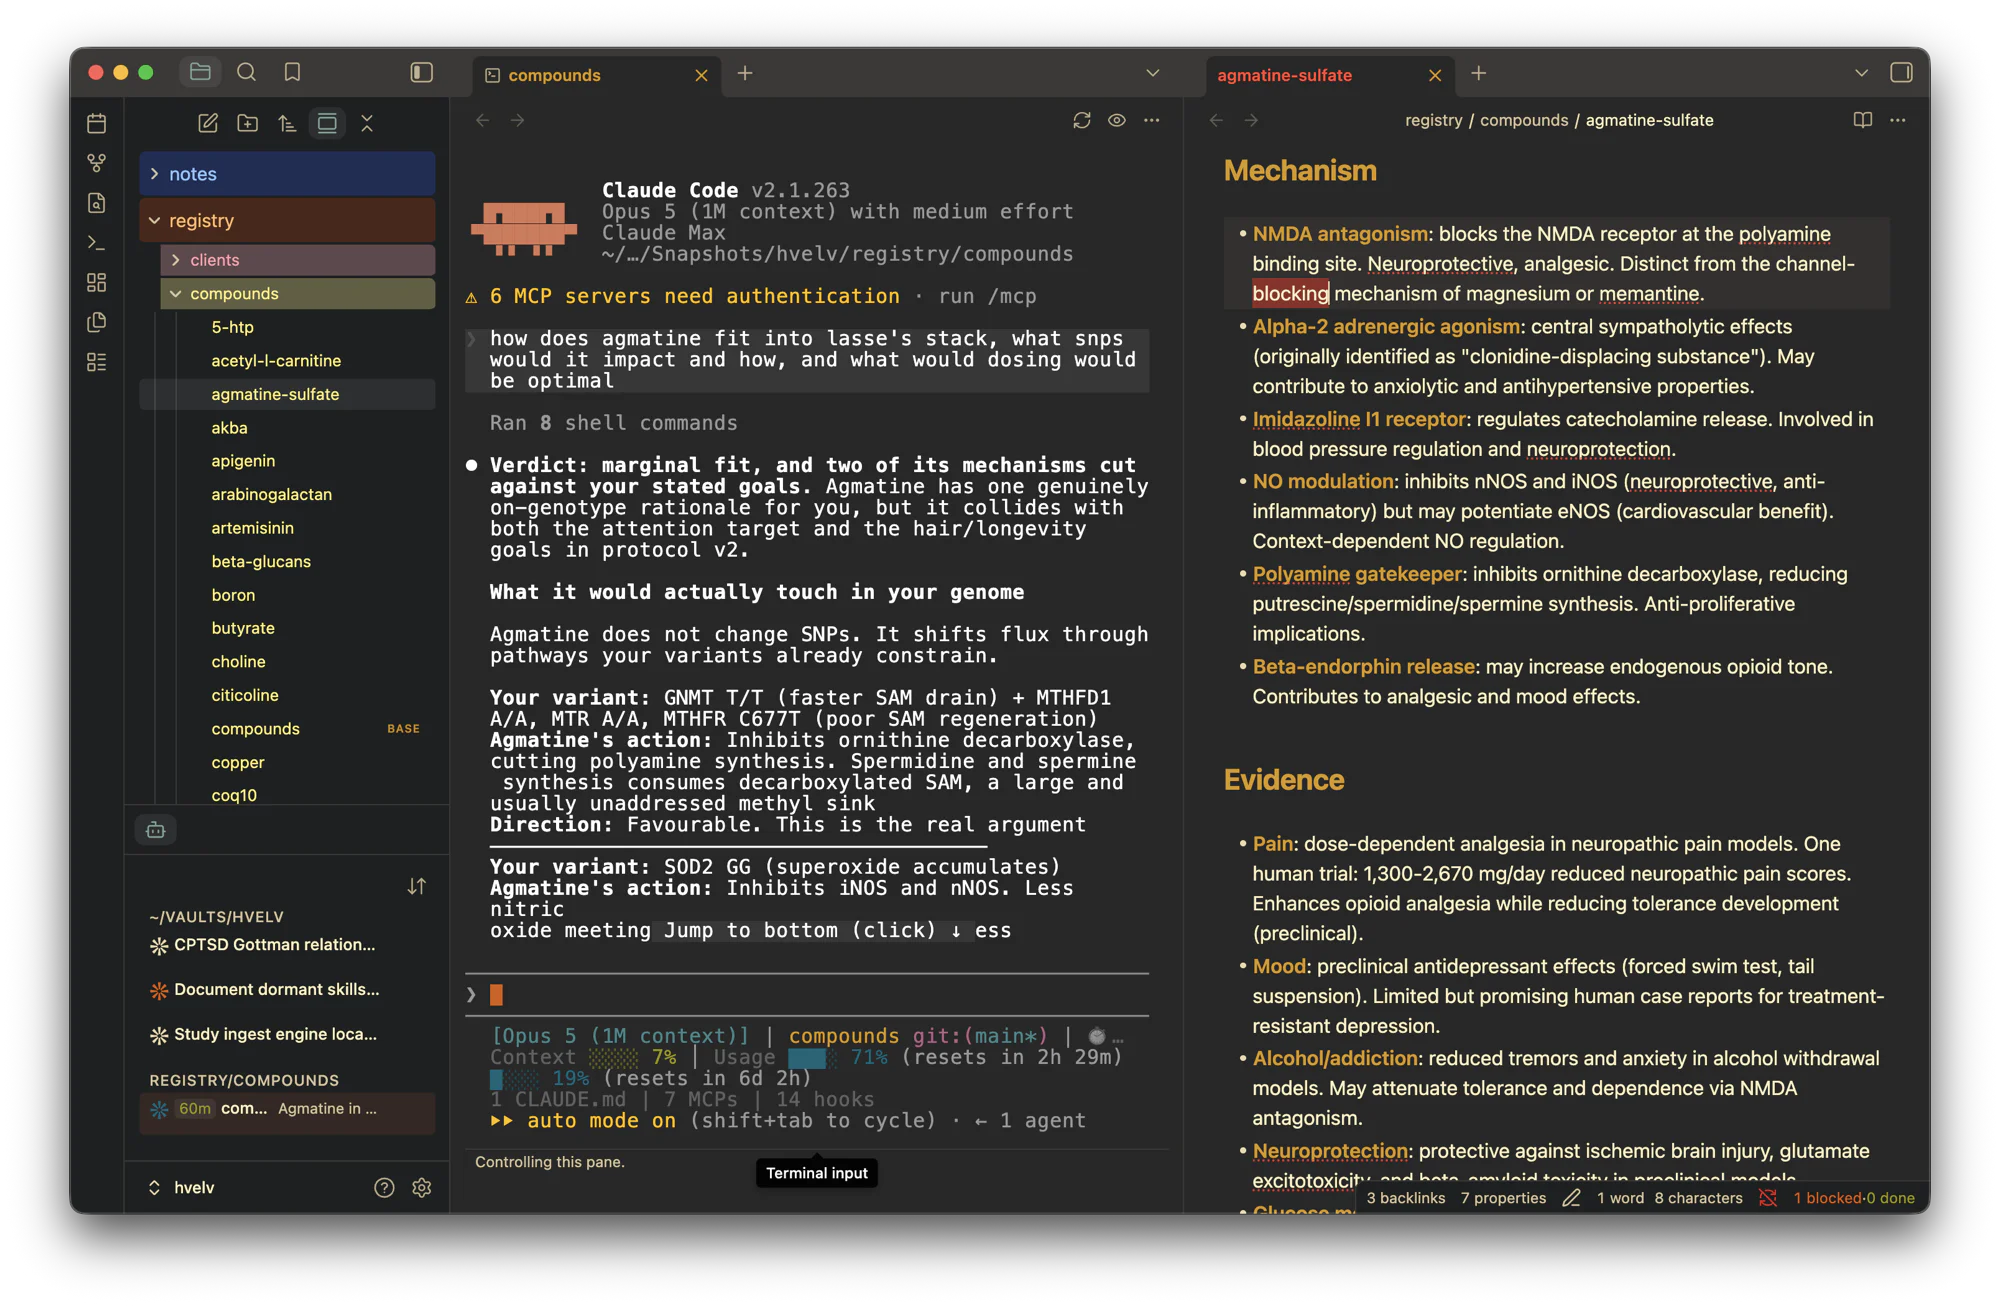
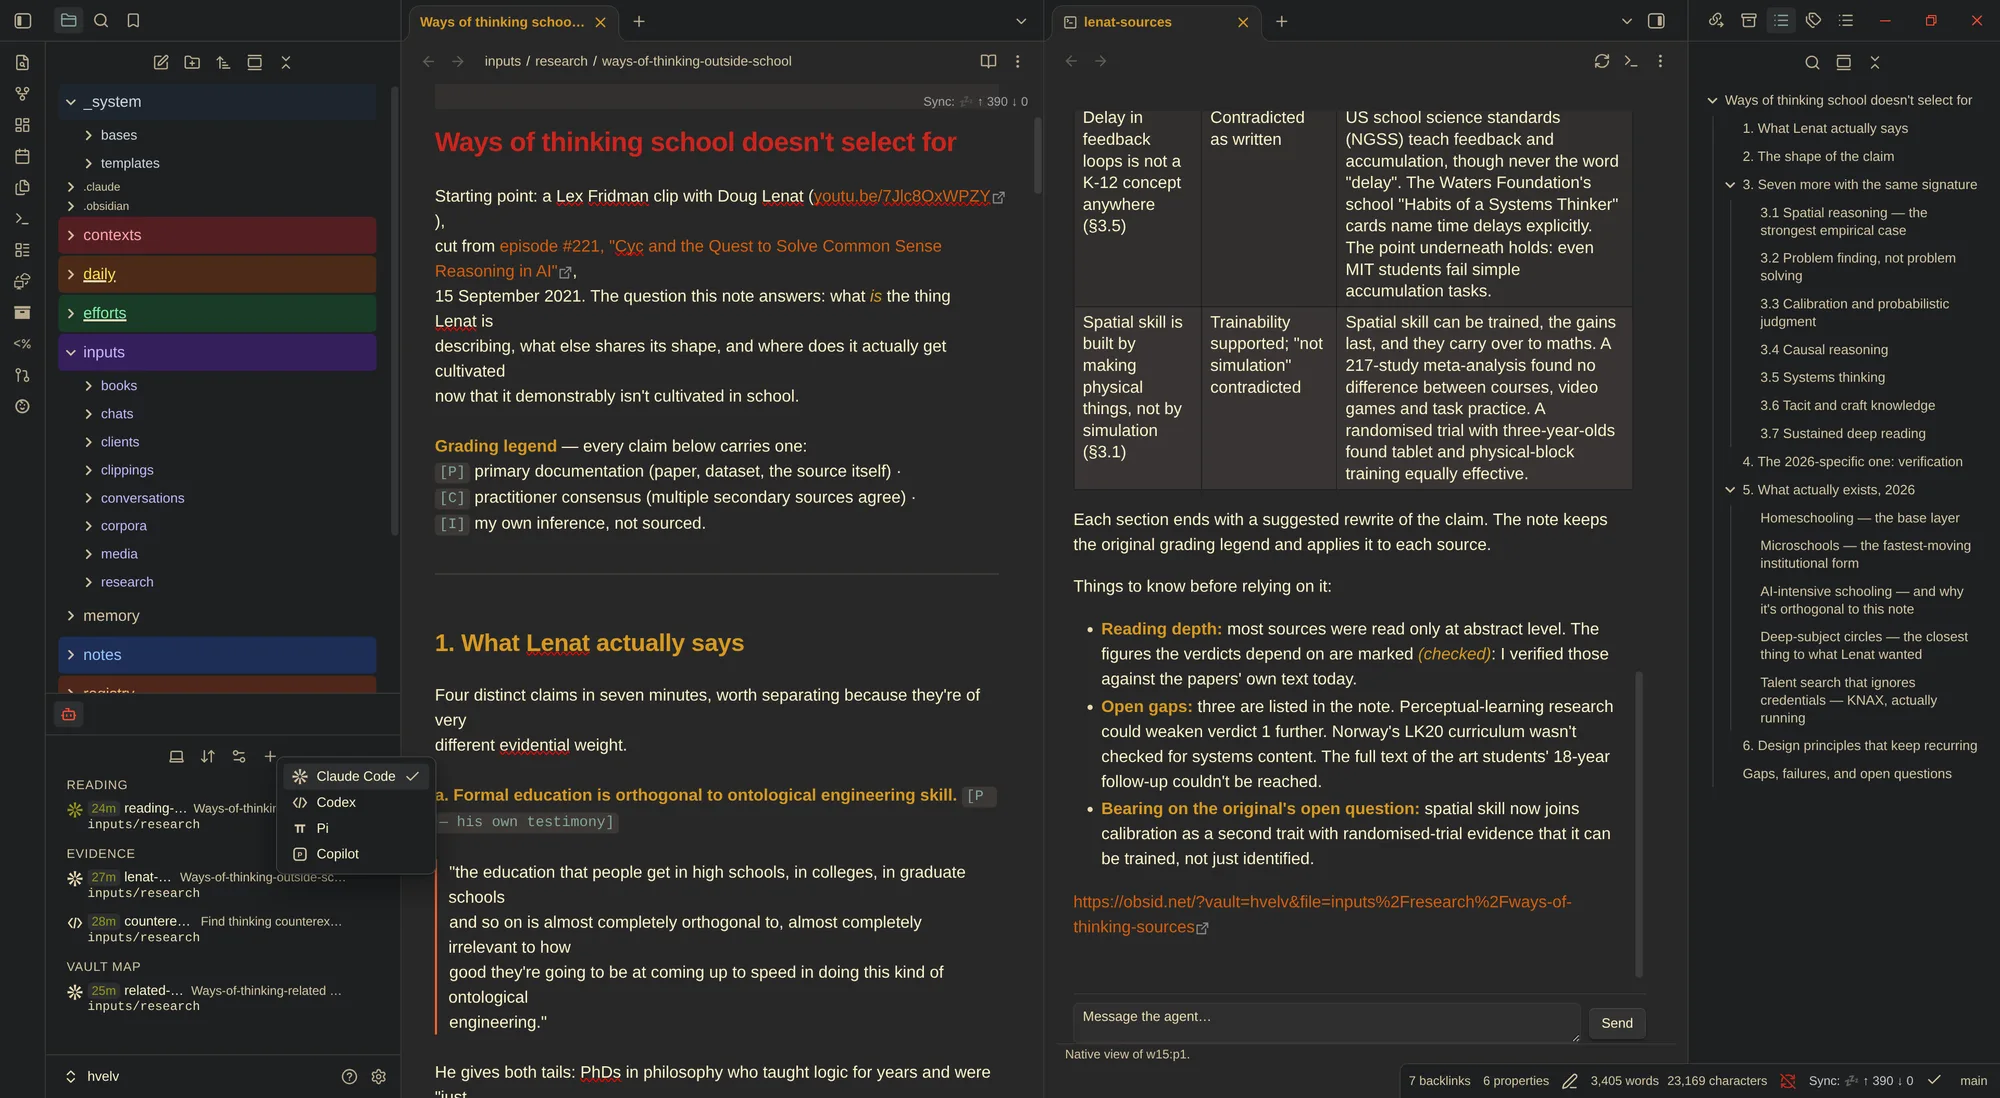
Replace the README screenshot with the workspace in use
A research note beside a Claude Code session in the native view, the
agent list grouping Claude Code and Codex agents by herdr tab, and the
+ menu listing the agent CLIs installed on the machine.

diff --git a/README.md b/README.md
@@ -12,7 +12,7 @@ and config, and keep running when Obsidian closes.
 No herdr yet? Run Claude Code directly from Obsidian to get up and running
 straight away.
 
-![The agent list in the left sidebar, a live Claude Code terminal as the centre tab, and the note the agent is writing open beside it.](images/screenshot.webp)
+![A research note open in the centre, with a Claude Code session beside it in the native view showing the sources table it wrote. In the left sidebar, the agent list groups four Claude Code and Codex agents by herdr tab, and the + menu offers Claude Code, Codex, Pi and Copilot.](images/screenshot.webp)
 
 **Remote:** run agents on another machine over SSH, with the vault kept in sync
 there. See the [remote guide](docs/runtimes.md#the-vault-must-exist-on-both-machines).
